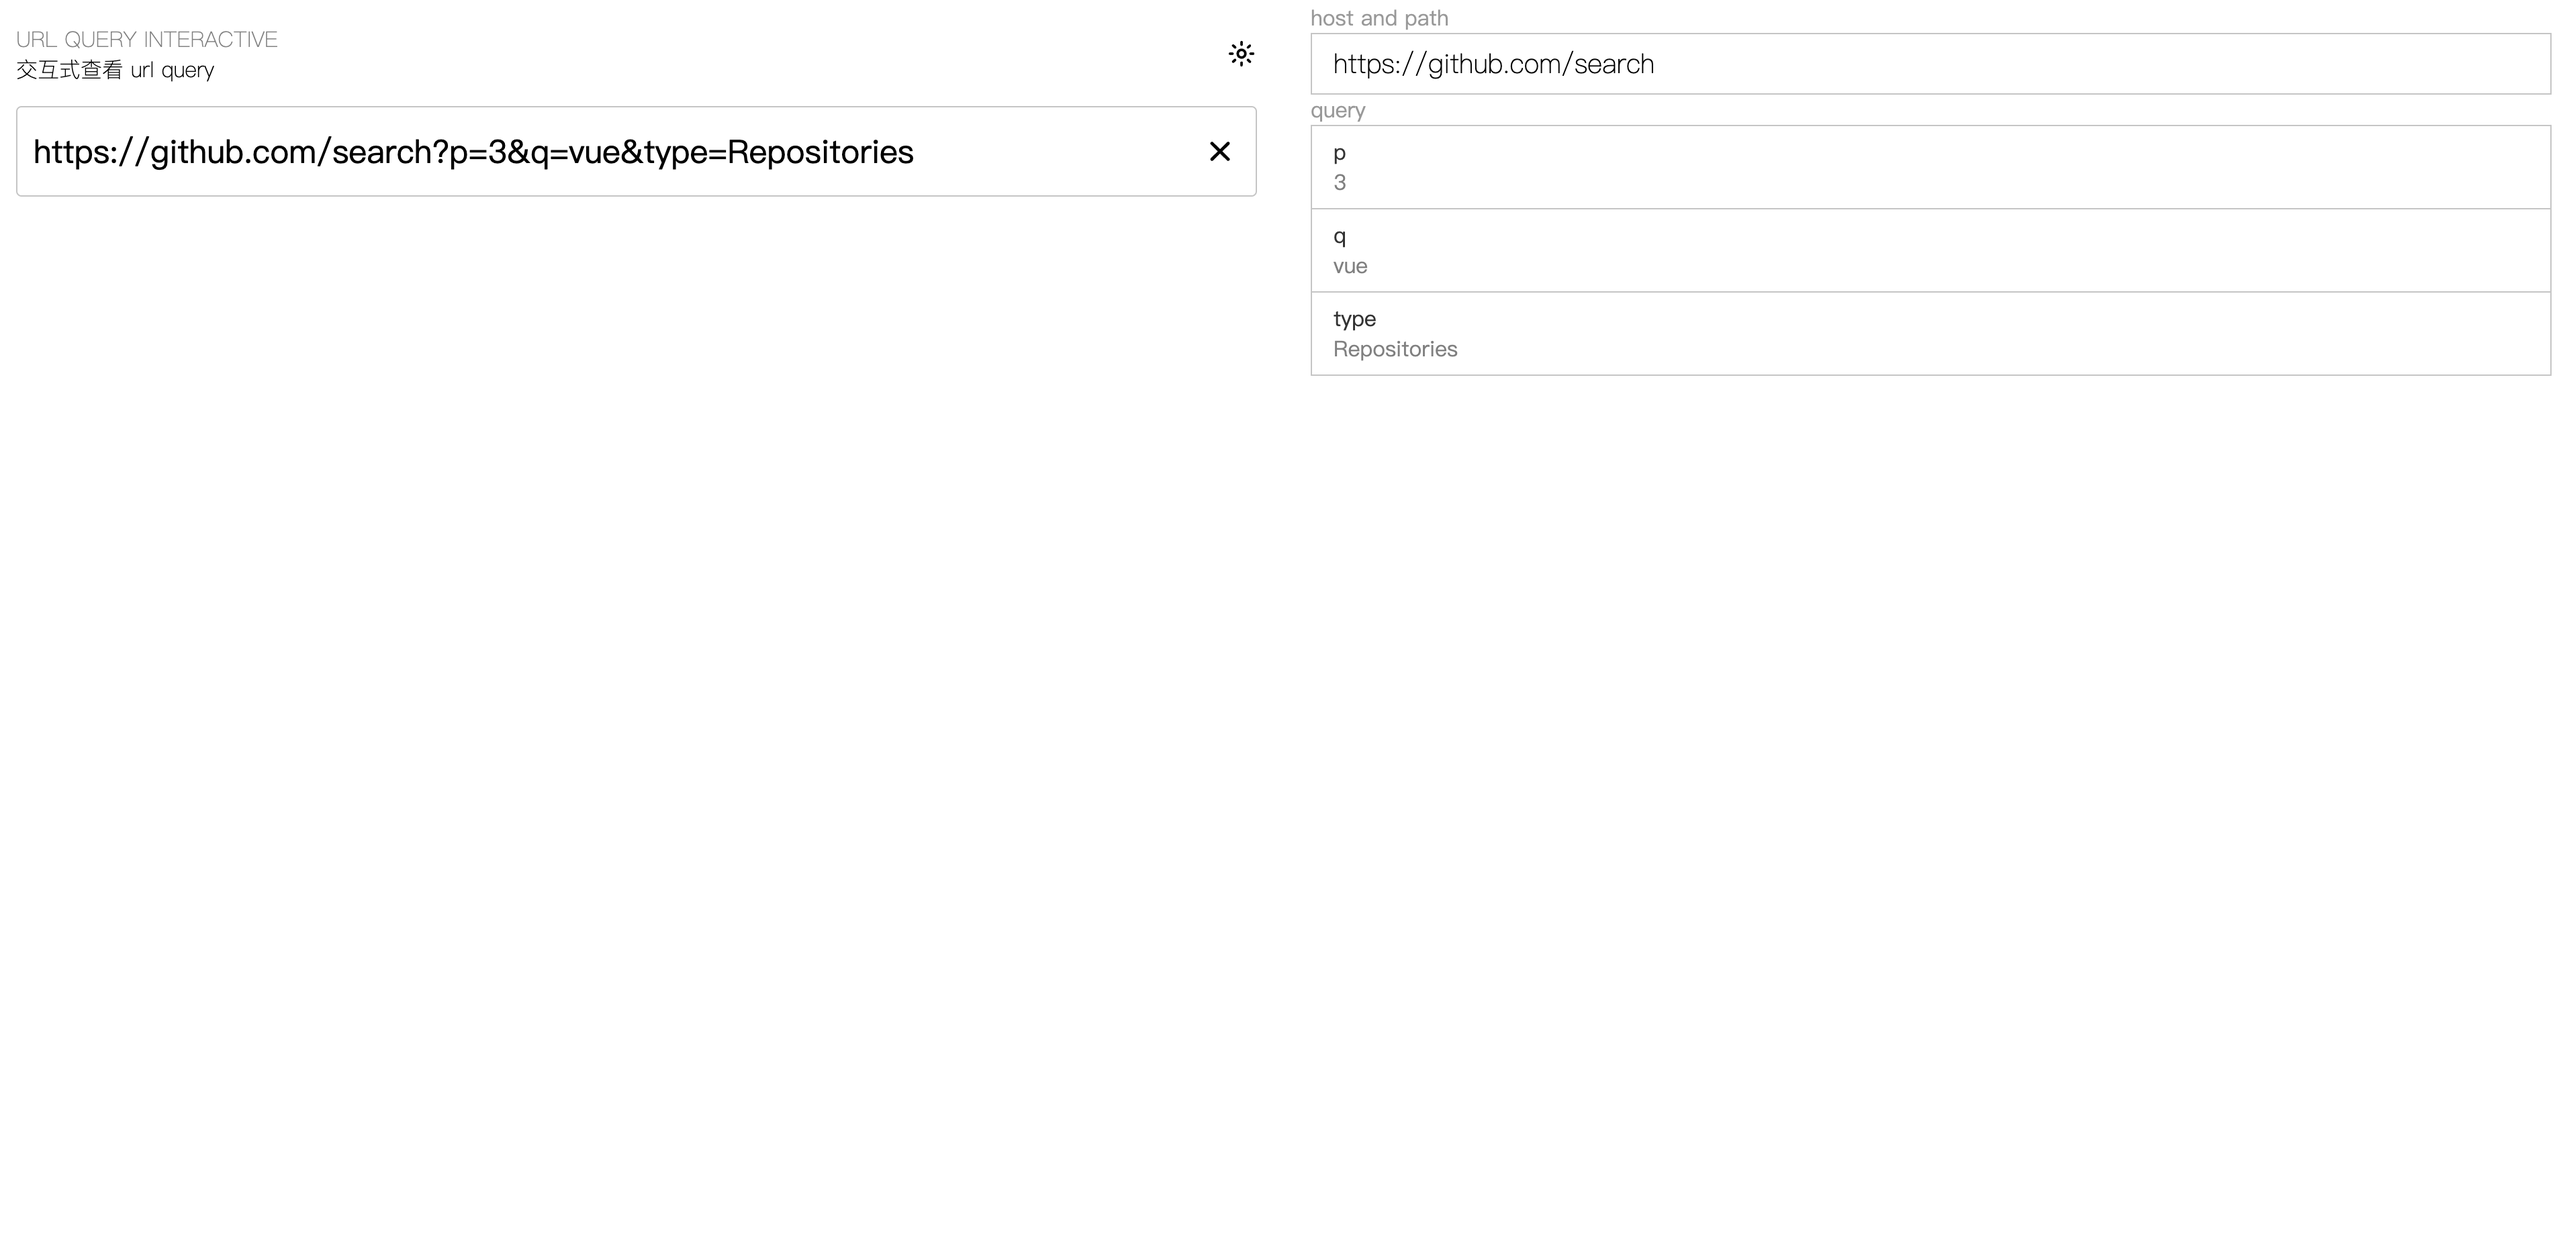
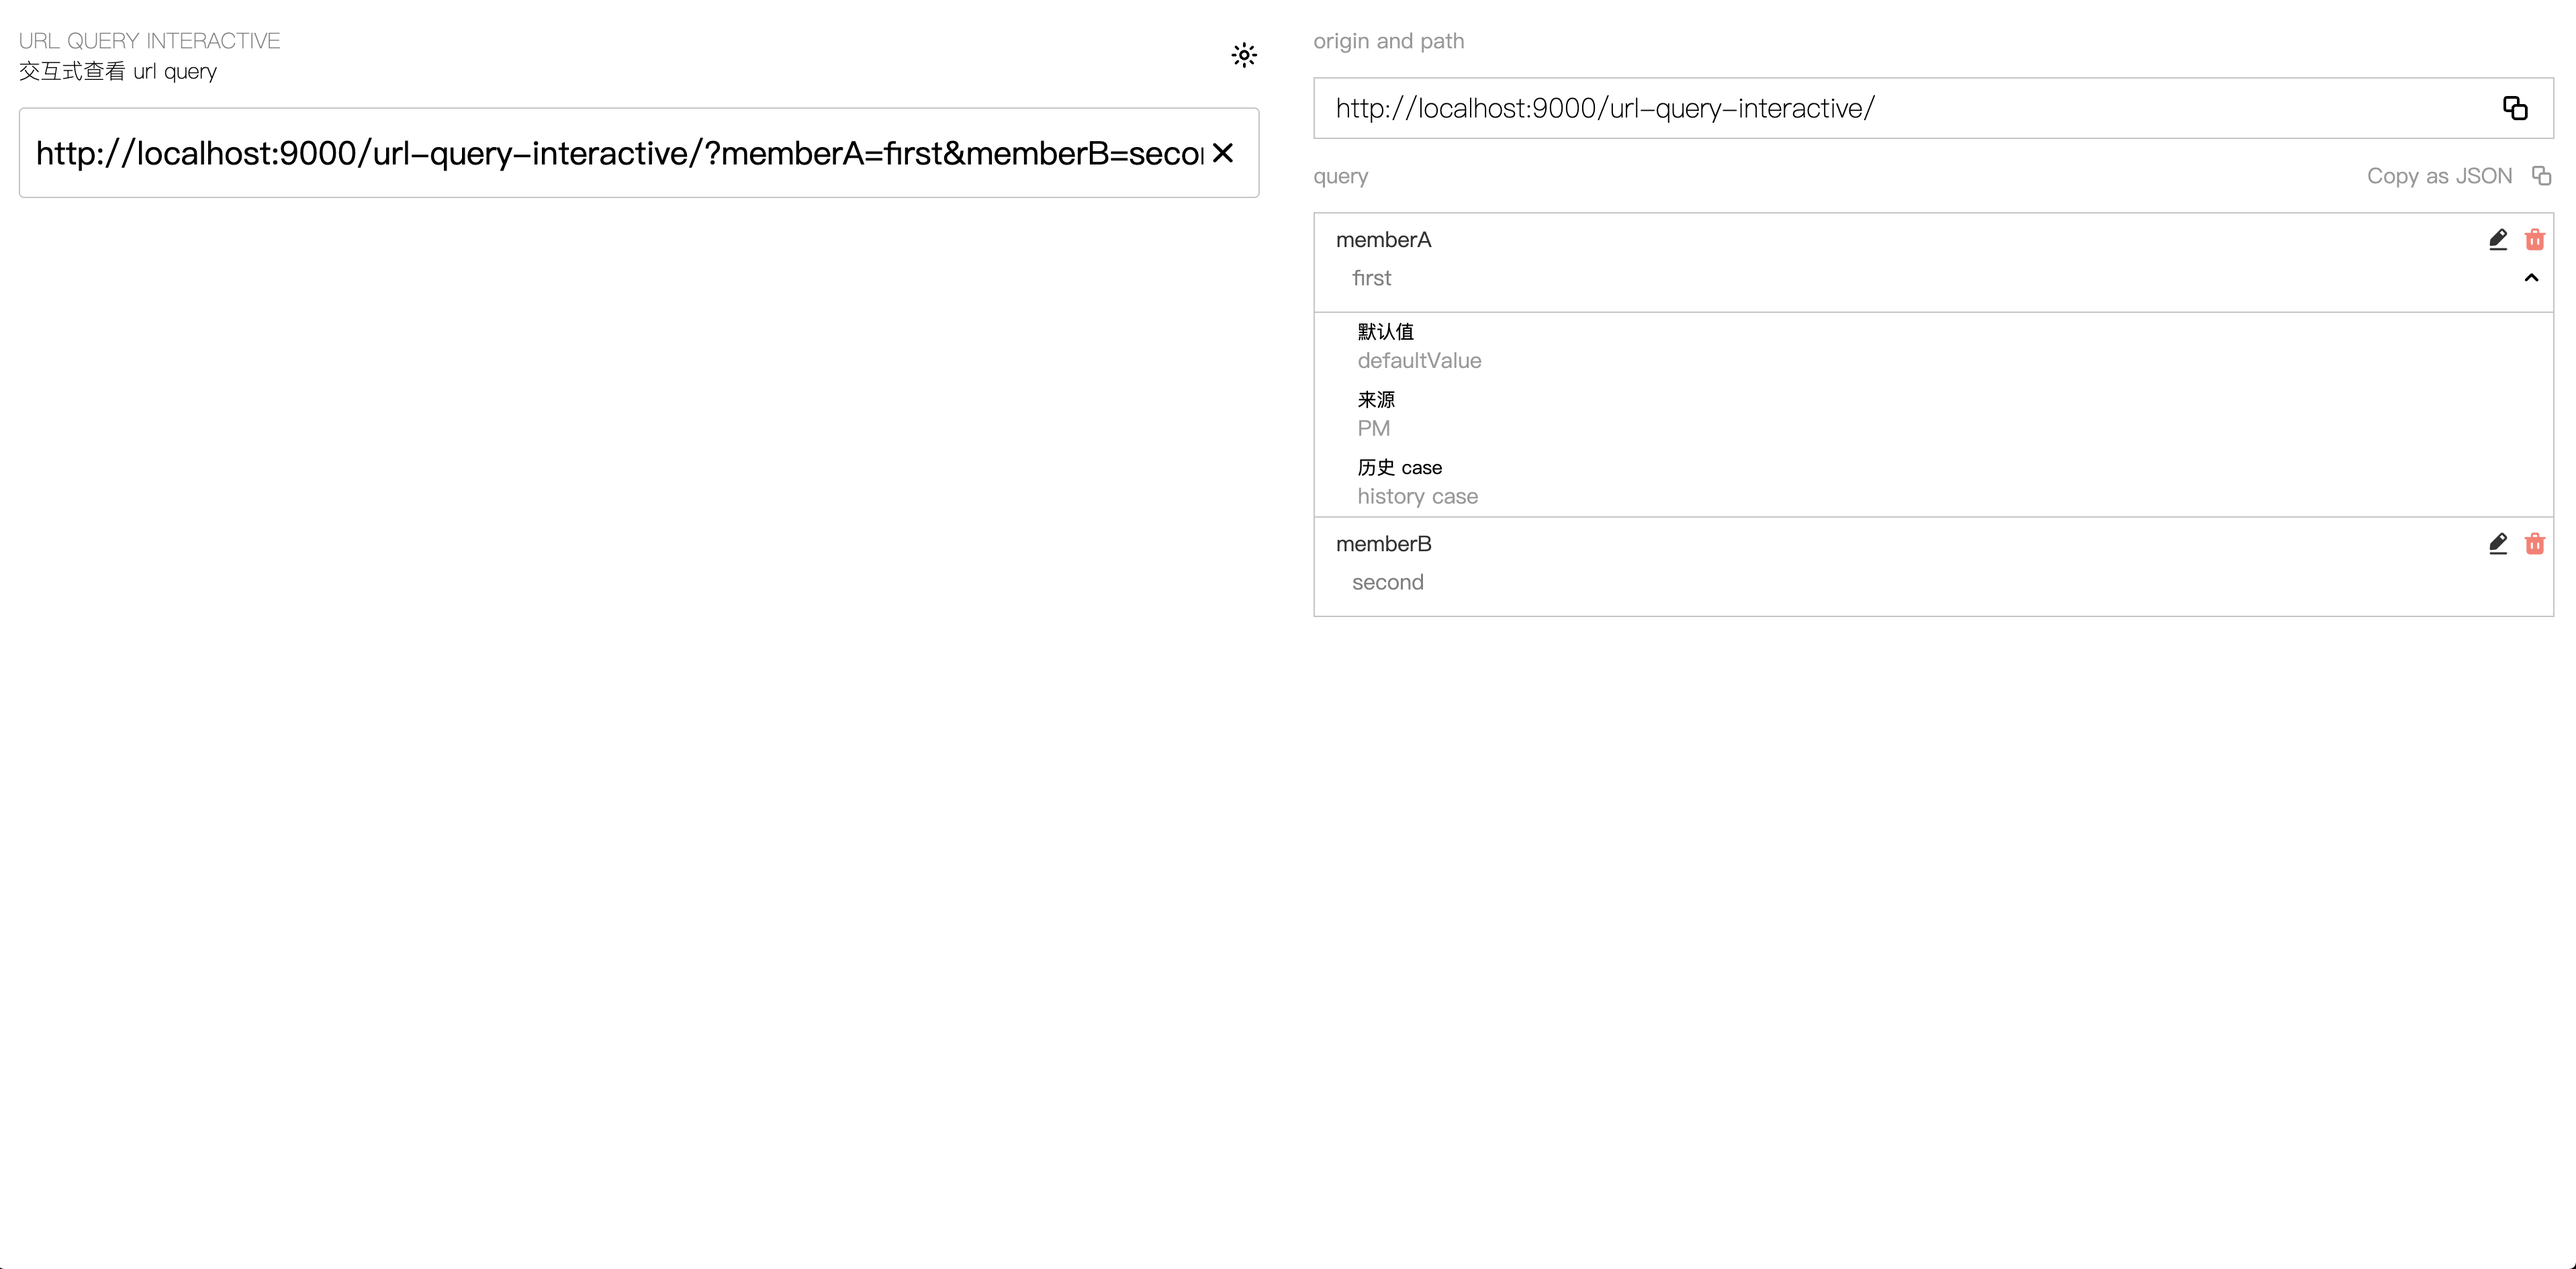
feat: support multiple delete query (#9)
chore: update examples

diff --git a/pages/index.vue b/pages/index.vue
@@ -3,47 +3,44 @@ import { VueSelecto } from 'vue3-selecto';
 import { computedInputModel } from '../composables/state';
 import { ProvideQueryState } from '@/types/index';
 import { QUERY_STATE_KEY } from '@/utils';
+import ParsedResult from '@/components/parsed-result/index.vue';
 
 function handleQueryChanged(query: Record<string, any>, urlRef: any) {
   computedInputModel.value = buildURL(urlRef.origin + urlRef.pathname, query);
 }
 
 const isEditingQuery = ref(false);
-const selectedQueryItems: ProvideQueryState['selectedQueryItems'] = ref([]);
-function clearAllSelectedQueryItems() {
-  selectedQueryItems.value.length = 0;
+const selectedQueryIndexes: ProvideQueryState['selectedQueryIndexes'] = ref([]);
+function clearAllSelectedQueryIndexes() {
+  selectedQueryIndexes.value.length = 0;
 }
 provide<ProvideQueryState>(QUERY_STATE_KEY, {
   isEditingQuery,
   updateIsEditingQuery(val: boolean) {
     isEditingQuery.value = !!val;
   },
-  selectedQueryItems,
-  clearAllSelectedQueryItems,
+  selectedQueryIndexes,
+  clearAllSelectedQueryIndexes,
 });
 
-const selectableTargets = ref([]);
-const container = ref();
+const parsedResultRef = ref<ComponentRef<typeof ParsedResult>>();
+const selectableTargets = computed(() => {
+  const resultRef = parsedResultRef.value!;
+  return resultRef?.queryState.collapseItemRefs.map(ref => ref?.$el);
+});
 function onSelect(e: any) {
   e.added.forEach((el: HTMLElement) => {
     el.classList.add('selected');
-    selectedQueryItems.value.push(el);
+    selectedQueryIndexes.value.push(getElementIndexFromParent(el));
   });
   e.removed.forEach((el: HTMLElement) => {
     el.classList.remove('selected');
-    const index = selectedQueryItems.value.findIndex((item) => {
-      return item === el;
+    const index = selectedQueryIndexes.value.findIndex((idx) => {
+      return idx === getElementIndexFromParent(el);
     });
-    selectedQueryItems.value.splice(index, 1);
+    selectedQueryIndexes.value.splice(index, 1);
   });
 }
-
-onMounted(() => {
-  nextTick(() => {
-    selectableTargets.value = Array.from(document.querySelectorAll('.collapse-item'));
-    container.value = document.querySelector('.app__right');
-  });
-});
 </script>
 
 <script lang="ts">
@@ -59,13 +56,16 @@ export default {
       <Search />
     </div>
     <div class="app__right">
-      <ParsedResult :url="computedInputModel" @query-changed="handleQueryChanged" />
+      <parsed-result
+        ref="parsedResultRef"
+        :url="computedInputModel"
+        @query-changed="handleQueryChanged"
+      />
     </div>
 
     <vue-selecto
-      :container="container"
-      :drag-container="container"
       :selectable-targets="selectableTargets"
+      :select-by-click="false"
       :select-from-inside="true"
       :continue-select="false"
       :hit-rate="5"

diff --git a/composables/useOperateQuery.ts b/composables/useOperateQuery.ts
@@ -1,13 +1,18 @@
-import type { Ref } from 'vue';
+import type { ComponentPublicInstance, Ref } from 'vue';
+import { QueryStringState } from './useQueryString';
 import { QUERY_STATUS, QueryStatus } from '~~/components/parsed-result/utils';
 import { ProvideQueryState } from '~~/types';
 
-export function useOperateQuery(query: Ref<Record<string, any>>, status: Ref<QueryStatus[]>) {
-  const { updateIsEditingQuery, selectedQueryItems, clearAllSelectedQueryItems } = inject<ProvideQueryState>(QUERY_STATE_KEY)!;
+export function useOperateQuery(query: Ref<Record<string, any>>, status: Ref<QueryStatus[]>, indexToQueryKeyMap: Ref<QueryStringState['indexToQueryKeyMap']>) {
+  const { updateIsEditingQuery, selectedQueryIndexes, clearAllSelectedQueryIndexes } = inject<ProvideQueryState>(QUERY_STATE_KEY)!;
   const queryState = reactive<{
         elRefs: HTMLElement[]
+        collapseItemRefs: ComponentPublicInstance[]
           }>({
             elRefs: Array.from({
+              length: Object.keys(query.value).length,
+            }),
+            collapseItemRefs: Array.from({
               length: Object.keys(query.value).length,
             }),
           });
@@ -43,11 +48,11 @@ export function useOperateQuery(query: Ref<Record<string, any>>, status: Ref<Que
     useEventListener('keydown', (e) => {
       switch (e.key) {
         case 'Backspace':
-          console.log(selectedQueryItems);
-          if (selectedQueryItems.value?.length > 0) {
-            // TODO BATCH Delete
-            clearAllSelectedQueryItems();
-          }
+          selectedQueryIndexes.value.forEach((index) => {
+            const queryKey = indexToQueryKeyMap.value.get(index);
+            queryKey && handleDeleteQueryItem(queryKey);
+          });
+          clearAllSelectedQueryIndexes();
           break;
         default:
           break;

diff --git a/components/parsed-result/index.vue b/components/parsed-result/index.vue
@@ -19,7 +19,7 @@ const props = withDefaults(defineProps<Props>(), {
 
 const emit = defineEmits(['query-changed']);
 
-const { originPath, query = {} as Ref<Record<string, any>>, status } = useQueryString(toRef(props, 'url'), emit);
+const { originPath, query = {} as Ref<Record<string, any>>, status, indexToQueryKeyMap } = useQueryString(toRef(props, 'url'), emit);
 
 const { copied, startCopy } = useCopy<string>(originPath);
 
@@ -31,11 +31,6 @@ const collapseActiveKeys = ref<number[]>([]);
 
 // TODO fake module and page
 const { fetchJSON, parsedPageQueryJSON } = useTypeToJSON();
-
-await fetchJSON({
-  module: '',
-  page: '',
-});
 
 const previewPageQueryJSON = computed(() => {
   return parsedPageQueryJSON.value?.children.filter((child) => {
@@ -55,7 +50,16 @@ const {
   handleEditQuery,
   handleDeleteQueryItem,
   queryState,
-} = useOperateQuery(query, status);
+} = useOperateQuery(query, status, indexToQueryKeyMap);
+
+defineExpose({
+  queryState,
+});
+
+await fetchJSON({
+  module: '',
+  page: '',
+});
 </script>
 
 <script lang="ts">
@@ -100,7 +104,12 @@ export default {
           </span>
         </div>
         <collapse v-model="collapseActiveKeys">
-          <collapse-item v-for="(queryKey, index) of Object.keys(query)" :key="queryKey" :name="index">
+          <collapse-item
+            v-for="(queryKey, index) of Object.keys(query)"
+            :key="queryKey"
+            :ref="(el) => queryState.collapseItemRefs[index] = el as any"
+            :name="index"
+          >
             <template #header="{ isActive, handleClickItem }">
               <ul class="query__list">
                 <li
@@ -305,6 +314,6 @@ export default {
 
 <style lang="less" scoped>
 .collapse-item.selected {
-  background: #f3f3f3;
+  background: var(--bg-color-1);
 }
 </style>

diff --git a/composables/useQueryString.ts b/composables/useQueryString.ts
@@ -2,10 +2,12 @@ import { Ref, reactive, toRefs, watch } from 'vue';
 import { QUERY_STATUS, QueryStatus } from '~~/components/parsed-result/utils';
 import { ProvideQueryState } from '@/types/index';
 
-interface QueryStringState {
+export interface QueryStringState {
     query: Record<string, string>
     rawUrl: string
     originPath: string
+    /** key 与 index 索引关系 */
+    indexToQueryKeyMap: Map<number, string>
 }
 
 function createUrl(url: string): Partial<URL> {
@@ -50,6 +52,7 @@ export function useQueryString(url: Ref<string>, emit: any) {
     query: {},
     rawUrl: url.value,
     originPath: '',
+    indexToQueryKeyMap: new Map<number, string>(),
   });
   const urlRef = ref<Partial<URL>>({});
   const { updateIsEditingQuery, isEditingQuery } = inject<ProvideQueryState>(QUERY_STATE_KEY)!;
@@ -79,12 +82,18 @@ export function useQueryString(url: Ref<string>, emit: any) {
   });
 
   watch(() => state.query, (newValue, oldValue) => {
-    console.log(newValue.a, oldValue.a);
-    if (isObject(newValue) && isObject(oldValue) && Object.keys(newValue).length > 0 && Object.keys(oldValue).length > 0 && isEditingQuery.value) {
+    if (isObject(newValue) && isObject(oldValue) && Object.keys(newValue).length > 0 && Object.keys(oldValue!).length > 0 && isEditingQuery.value) {
       emit('query-changed', newValue, urlRef.value);
+    }
+
+    if (isObject(newValue)) {
+      Object.keys(newValue).forEach((key, idx) => {
+        state.indexToQueryKeyMap.set(idx, key);
+      });
     }
   }, {
     deep: true,
+    immediate: true,
   });
 
   return {

diff --git a/types/vue.d.ts b/types/vue.d.ts
@@ -1,0 +1,11 @@
+type Constructor<Signature> = abstract new (...args: any) => Signature
+
+// Remove default vue properties from the component ref instance
+type ComponentRef<Component extends Constructor<unknown>> = {
+  [Key in keyof InstanceType<Component> as Key extends `$${string}`
+    ? never
+    : // Remove custom directives
+    Key extends `v${Capitalize<string>}`
+    ? never
+    : Key]: InstanceType<Component>[Key] // Remove vue builtins
+}

diff --git a/types/index.ts b/types/index.ts
@@ -4,6 +4,6 @@ export interface ProvideQueryState {
     isEditingQuery: Ref<boolean>
     updateIsEditingQuery(val: boolean): void
 
-    selectedQueryItems: Ref<HTMLElement[]>
-    clearAllSelectedQueryItems(): void
+    selectedQueryIndexes: Ref<number[]>
+    clearAllSelectedQueryIndexes(): void
 }

diff --git a/assets/styles/variables.css b/assets/styles/variables.css
@@ -3,4 +3,11 @@
     --bg-color: #ffffff;
     --border-color: #cccccc;
     --danger-color: #FF605A;
+    --bg-color-1: #f3f3f3;
+    --bg-selection: rgba(46, 50, 56, 0.3);
+    --border-selection: #C6CACD;
+}
+
+.dark {
+    --bg-color-1: #41464C;
 }

diff --git a/pages/index.less b/pages/index.less
@@ -20,3 +20,8 @@
         overflow: auto;
     }
 }
+
+.selecto-selection {
+    border: 1px solid var(--border-selection) !important;
+    background: var(--bg-selection)!important;
+}

diff --git a/utils/dom.ts b/utils/dom.ts
@@ -1,0 +1,3 @@
+export function getElementIndexFromParent(element: HTMLElement) {
+  return [...element.parentNode!.children].indexOf(element);
+}

diff --git a/utils/index.ts b/utils/index.ts
@@ -3,3 +3,4 @@ export * from './vue';
 export * from './array';
 export * from './url';
 export * from './constants';
+export * from './dom';

diff --git a/README.md b/README.md
@@ -8,7 +8,7 @@
 ## Feature TODO list
 - [x] display type comment
 - [x] support delete query params (single)
-- [] support delete query params (multiple)
+- [x] support delete query params (multiple)
 - [x] support edit query param
 ## Setup
 
